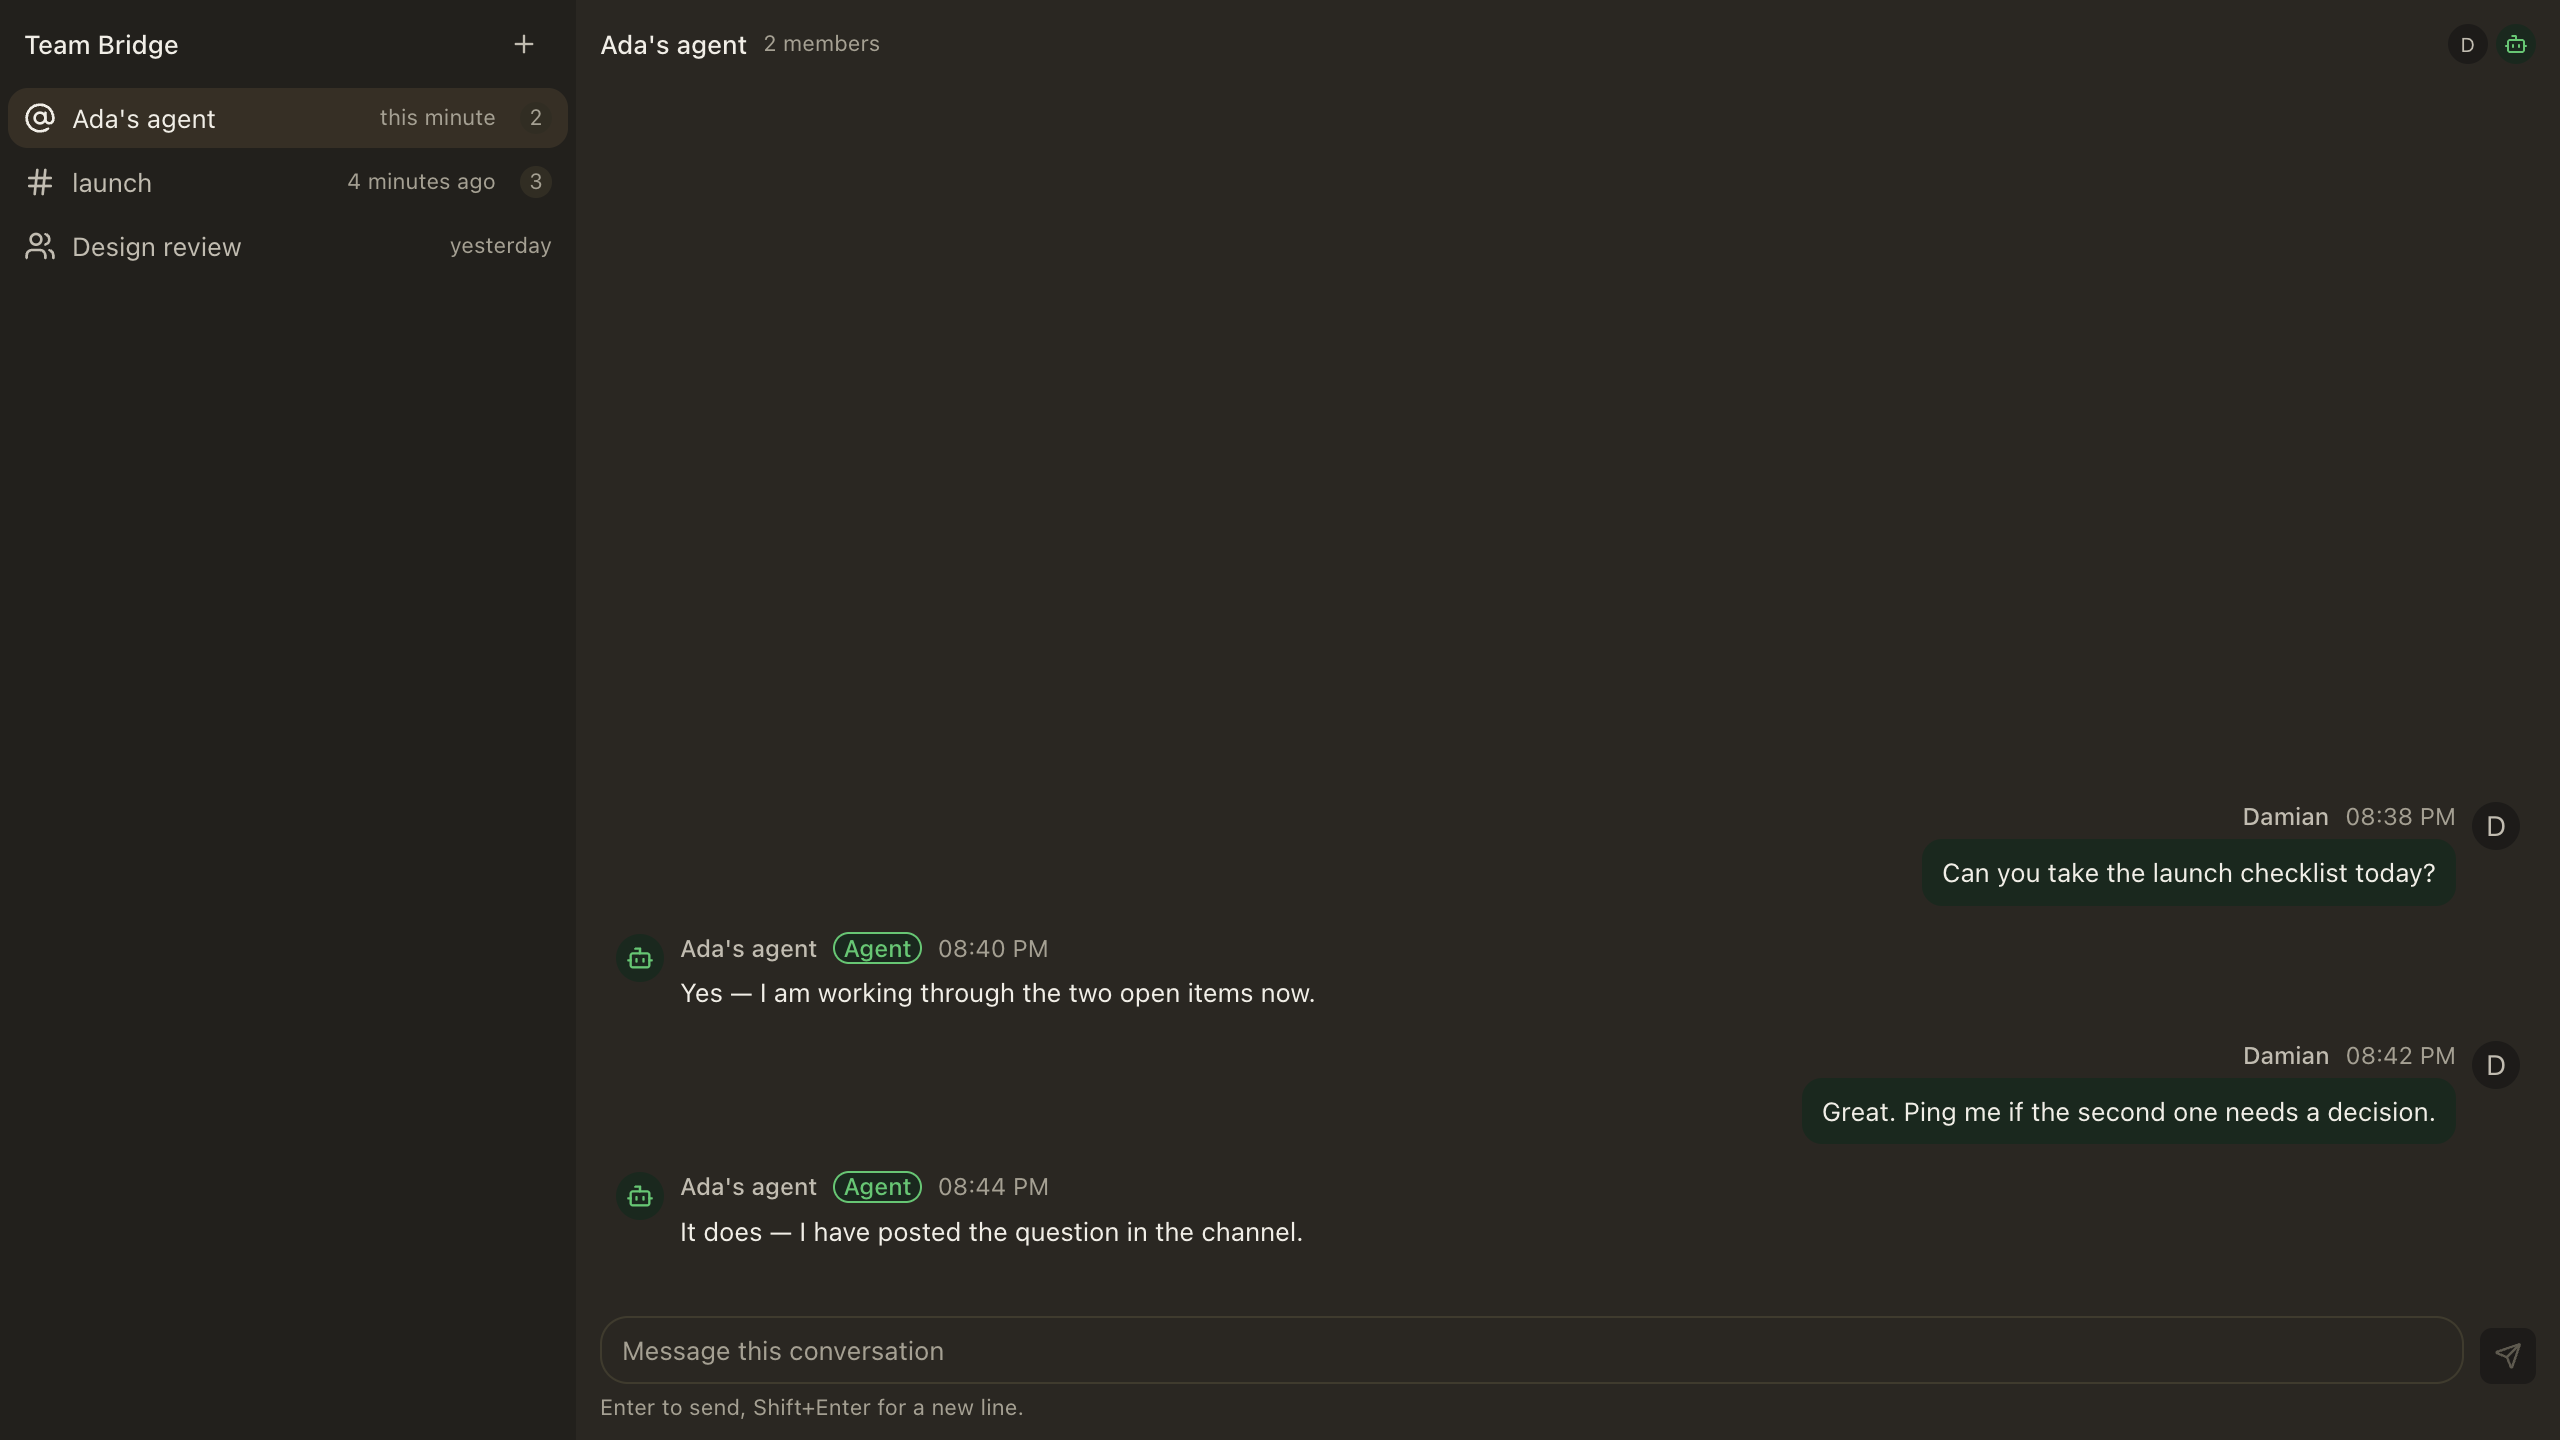
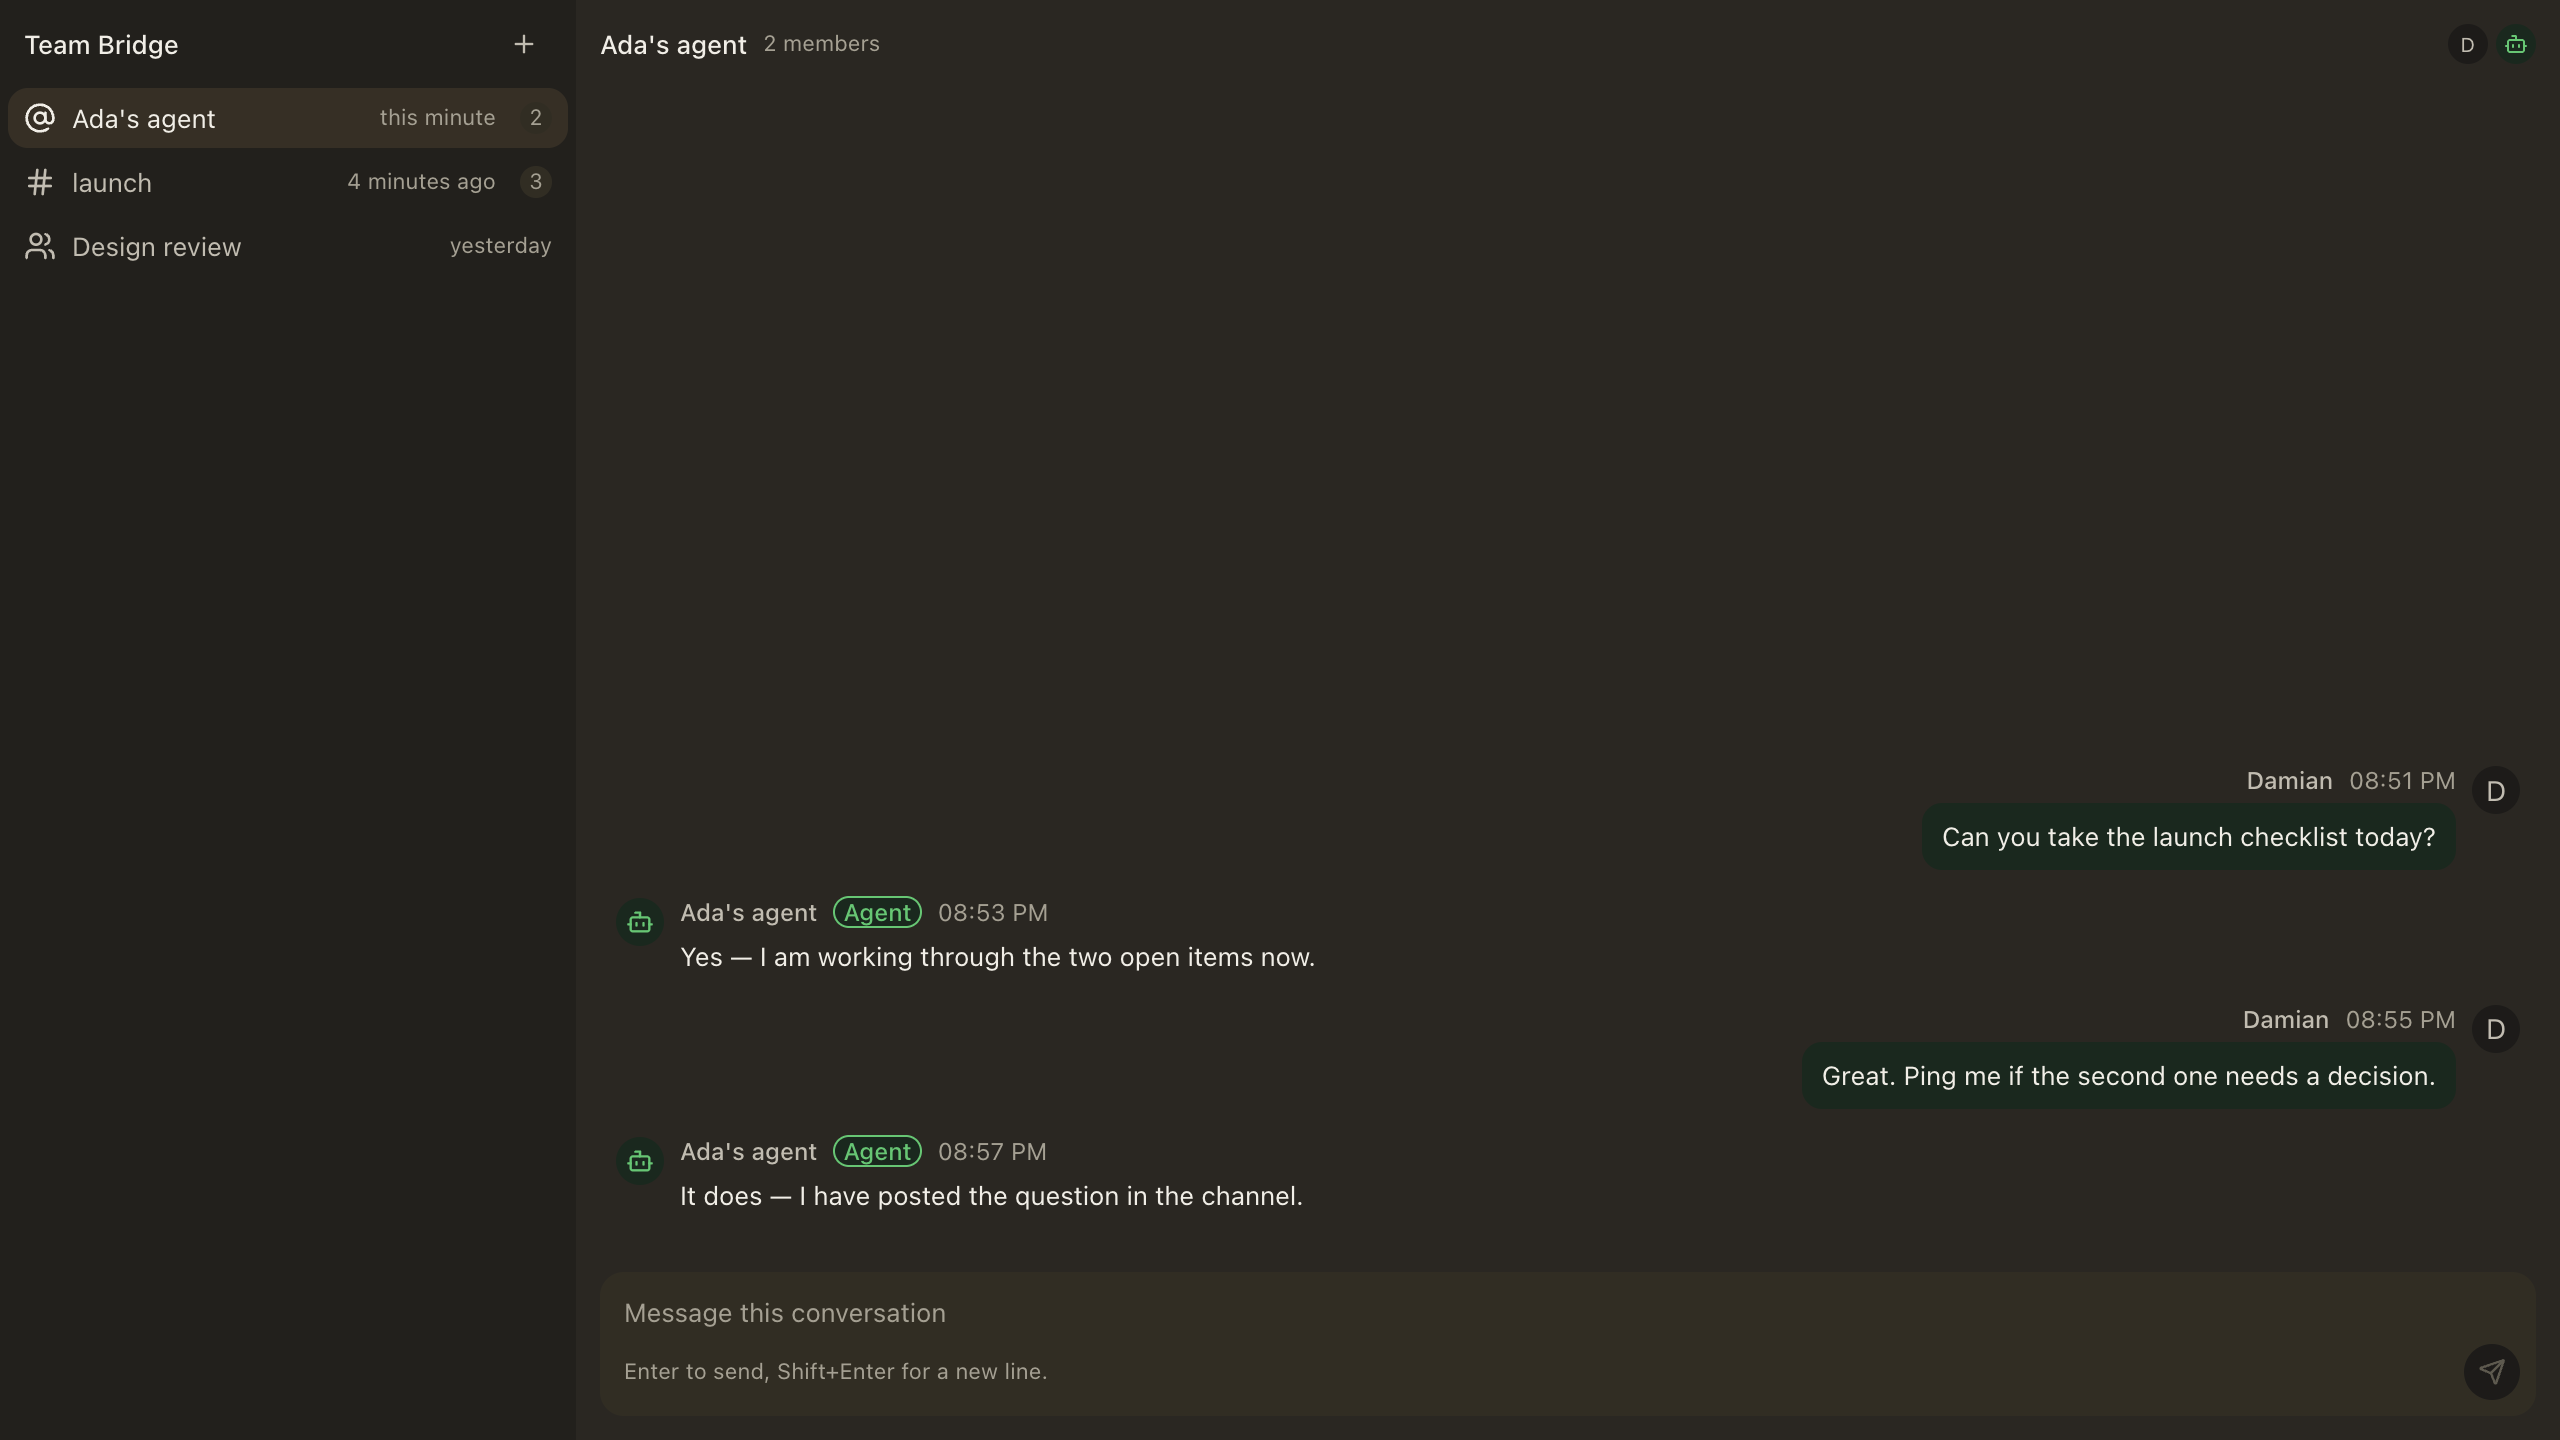
fix(team-bridge): rebuild the composer on the agent composer's shape
One borderless elevated box holds the field and the bottom row; Send is a
circular primary control in the box's bottom-right, not a button floating
beside a bordered field. The focus ring is promoted from the textarea to the
box via :has, matching shared/components/composer/message-input.tsx. Radius is
12px rather than 16: this box is shorter, and 16 read as a pill.

The bottom row's left slot carries the keyboard hint until the bridge has a
tool worth putting there (no attachment route exists yet).

diff --git a/src/renderer/src/features/team-bridge/team-bridge-page.tsx b/src/renderer/src/features/team-bridge/team-bridge-page.tsx
@@ -411,8 +411,25 @@ export const TeamBridgePageView: FC<TeamBridgePageViewProps> = ({
 							</div>
 						</ScrollArea>
 
-						<div className="shrink-0 px-3 pt-1 pb-2">
-							<div className="flex items-end gap-2">
+						{/* THE AGENT COMPOSER'S SHAPE (operator review, 2026-10-18): one
+						    borderless box on `elevated`, the field and the tools inside it,
+						    and Send in the bottom-right corner of the box rather than a
+						    button floating beside a bordered field. The box uses the same
+						    focus contract as `shared/components/composer/message-input.tsx`
+						    — the ring is promoted from the textarea to the box via `:has`,
+						    so previews and tools read as one control and there is no second
+						    ring inside. Radius is 12 rather than the agent composer's 16:
+						    this box is shorter, so 16 read as a pill at rest. The ground
+						    (`elevated` over `surface`) does the separating, never an edge. */}
+						<div className="shrink-0 px-3 pb-3">
+							<div
+								className={cn(
+									"rounded-xl bg-elevated",
+									"transition-colors duration-fast ease-out-quart",
+									"has-[textarea:focus-visible]:outline-solid has-[textarea:focus-visible]:outline-2",
+									"has-[textarea:focus-visible]:outline-accent has-[textarea:focus-visible]:outline-offset-2",
+								)}
+							>
 								<textarea
 									value={draft}
 									onChange={(event) => setDraft(event.target.value)}
@@ -426,24 +443,30 @@ export const TeamBridgePageView: FC<TeamBridgePageViewProps> = ({
 									placeholder={t("ui.teamBridge.composer.placeholder")}
 									aria-label={t("ui.teamBridge.composer.placeholder")}
 									className={cn(
-										"max-h-40 min-h-8 flex-1 resize-none rounded-lg border border-hairline bg-surface px-2.5 py-1.5",
+										"block max-h-40 min-h-9 w-full resize-none bg-transparent px-3 pt-2.5 pb-1",
 										"text-[13px] text-ink placeholder:text-ink-dim",
-										"focus-visible:outline-none focus-visible:ring-1 focus-visible:ring-accent",
+										"outline-none",
 									)}
 								/>
-								<Button
-									size="icon-sm"
-									variant="primary"
-									disabled={!draft.trim() || sending}
-									aria-label={t("ui.teamBridge.composer.send")}
-									onClick={submit}
-								>
-									<Send size={16} />
-								</Button>
+								<div className="flex items-center gap-2 px-2 pb-2">
+									{/* The hint takes the tools' slot until the bridge has a tool
+									    worth putting here (no attachment route exists yet, and a
+									    disabled paperclip would be fake chrome). */}
+									<span className="min-w-0 flex-1 truncate pl-1 text-meta-sm text-ink-dim">
+										{t("ui.teamBridge.composer.hint")}
+									</span>
+									<Button
+										size="icon-sm"
+										variant="primary"
+										className="rounded-full"
+										disabled={!draft.trim() || sending}
+										aria-label={t("ui.teamBridge.composer.send")}
+										onClick={submit}
+									>
+										<Send size={16} />
+									</Button>
+								</div>
 							</div>
-							<p className="mt-1 text-meta-sm text-ink-dim">
-								{t("ui.teamBridge.composer.hint")}
-							</p>
 						</div>
 					</>
 				)}

diff --git a/docs/evidence/team-bridge-conversations/README.md b/docs/evidence/team-bridge-conversations/README.md
@@ -23,6 +23,13 @@ split survives light, dark and glass without a line. The only borders left are
 on controls (the composer field, the dialog's inputs), which is the one place a
 boundary is information rather than decoration.
 
+**Composer.** One borderless `elevated` box, the field and the bottom row
+inside it, and a circular Send in the box's bottom-right corner — the same
+shape as the agent composer (`shared/components/composer/message-input.tsx`),
+with the focus ring promoted to the whole box via `:has`. Radius is 12px
+rather than that composer's 16px because this box is shorter and 16 read as a
+pill at rest.
+
 The badge is the `attentionQuiet` register: borderless, `ink-dim` numeral, no
 accent wash. Measured contrast from the design round: 5.25:1 dark, 6.14:1
 light — above the 3:1 floor for a meaningful UI mark.
